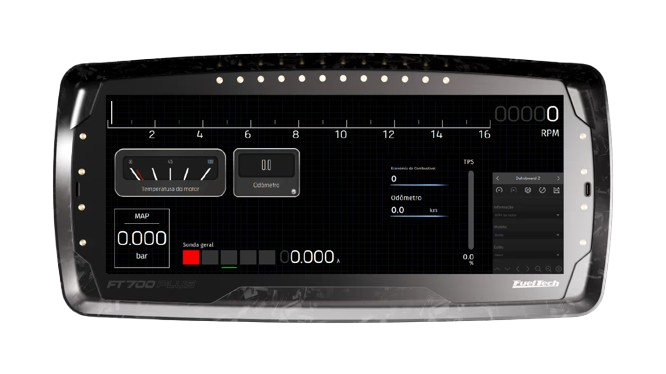
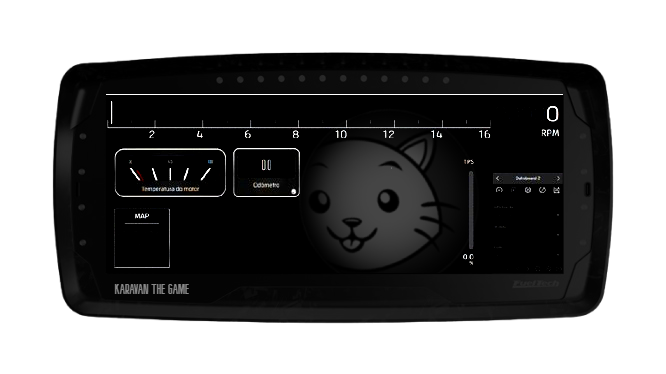
add:New FT700

diff --git a/JOGO.py b/JOGO.py
@@ -103,7 +103,7 @@ def moveLines(lines):
             line.move(0, dy)
 
 def createRpmBar(win):
-    rpmBarBackground = gf.Rectangle(gf.Point(240, 710), gf.Point(615, 720))
+    rpmBarBackground = gf.Rectangle(gf.Point(235, 685), gf.Point(615, 715))
     rpmBarBackground.setFill("darkgrey")
     rpmBarBackground.draw(win)
 
@@ -124,7 +124,7 @@ def updateRpmBar(win, rpmBar, rpmValue):
     rpmBar.undraw()
 
     # Cria a barra nova
-    newRpmBar = gf.Rectangle(gf.Point(start, 710), gf.Point(x, 720))
+    newRpmBar = gf.Rectangle(gf.Point(start, 685), gf.Point(x, 715))
     newRpmBar.setFill("yellow")
     newRpmBar.draw(win)
 
@@ -146,11 +146,12 @@ def shakeKaravan(karavanHitBox,karavanSprite,shakeInterval,shakeRight,shakeTimer
         
     return shakeRight, shakeTimer
     
-def grassDraw(win):
+def drawGrass(win):
     count=100
+    grassList = []
     for i in range(count):
         x = random.randint(0, 900)
-        y = random.randint(0, 900)
+        y = random.randint(0, 700)
         size = random.randint(4, 10)
 
         for i in range(10):
@@ -159,20 +160,69 @@ def grassDraw(win):
                 gf.Point(x + random.randint(-size, size), y - random.randint(3, size))
             )
             line.setWidth(1)
-            greens = ["#228b22", "#006400", "#32cd32", "#00aa44"]
+            greens = ["#228b22", "#006400", "#32cd32", "#00aa44"] 
             line.setFill(random.choice(greens))
+            grassList.append(line)
             line.draw(win)
+    return grassList
+
+
+#def moveGrass(grassList):
+    print(f'entrou na função de mover')
+    for grass in grassList:
+        grass.move(2,0)
+        if grass.getP1().getX() >= 200:
+            dx = 10
+            grass.move(dx,0)
+            print('Chegou no limitezão em ')
+    
+
+def addNewScore(newScore):
+    previousScores = []
+    output = ''
+    with open('leaderboard.csv', 'r') as file:
+        previousScores = [score for score in file.read().strip().split(';') if score]
+        print(previousScores)
+
+    
+        previousScores.append(str(newScore) + ';')
+        previousScores.sort(reverse=True, key=str)
+# Converter a lista de volta para uma string separada por ponto e vírgula
+        output = ';'.join(previousScores) + ';'
+    #    print(previousScores)
+#
+    #    for i in range(len(previousScores)):
+    #        for j in range(1,len(previousScores)):
+    #            if previousScores[j] > previousScores[i]:
+    #                previousScores[j],previousScores[i] = previousScores[i],previousScores[j]
+    with open('leaderboard.csv', 'w+') as file:
+    #    
+    #    for score in previousScores:
+    #        output += score + ';'
+    #    print(output)
+        file.write(output)
 
            
 def main():
     #gameOver
     gameOver = False
 
-    grassDraw(win)
+    grass = drawGrass(win)
+    print(grass)
     road,dirtRoad = genRoad(win,0)
     print(road)
     genLines(win)
     lines = genLines(win)
+    #Cria a antiga FT e o Score que vai aparecer na tela
+    score = 0
+    scoreText = gf.Text(gf.Point(262, 835), f"{score}")
+    scoreText.setTextColor('white')
+    scoreText.setSize(18)
+    ft = gf.Image(gf.Point(455,775), "ft700.png")
+    ft.draw(win)
+
+    scoreText.draw(win)
+
 
     #karavanHitBox.setFill("blue") #Cor da hitbox
 
@@ -191,13 +241,7 @@ def main():
     spawn_timer = 0  
     spawn_interval = 100 #Mais dificil => menor spawn_interval 
 
-    #Cria a antiga FT e o Score que vai aparecer na tela
-    score = 0
-    scoreText = gf.Text(gf.Point(367, 840), f"Points: {score}")
-    scoreText.setSize(18)
-    ft = gf.Image(gf.Point(460,790), "ft700.png")
-    ft.draw(win)
-    scoreText.draw(win)
+
     
     rpmValue = 0.0
     rpm_speed_up = 0.04
@@ -211,7 +255,9 @@ def main():
 
     
     while not gameOver:
+
         
+
         key = win.checkKey()
         
         karavanX1 = karavanHitBox.getP1().getX()
@@ -267,6 +313,8 @@ def main():
 
         #Função para mover as linhas da rodovia  
         moveLines(lines)
+        
+        #moveGrass(grass)
 
         #Reseta o tráfego quando atingir o limite vertical da tela
         if resetTraffic(traffic,trafficSpeed):
@@ -282,6 +330,7 @@ def main():
             print('Karavan Crashed')
             win.getMouse()
             gameOver = True
+            newScore = addNewScore(score)
 
 
 
